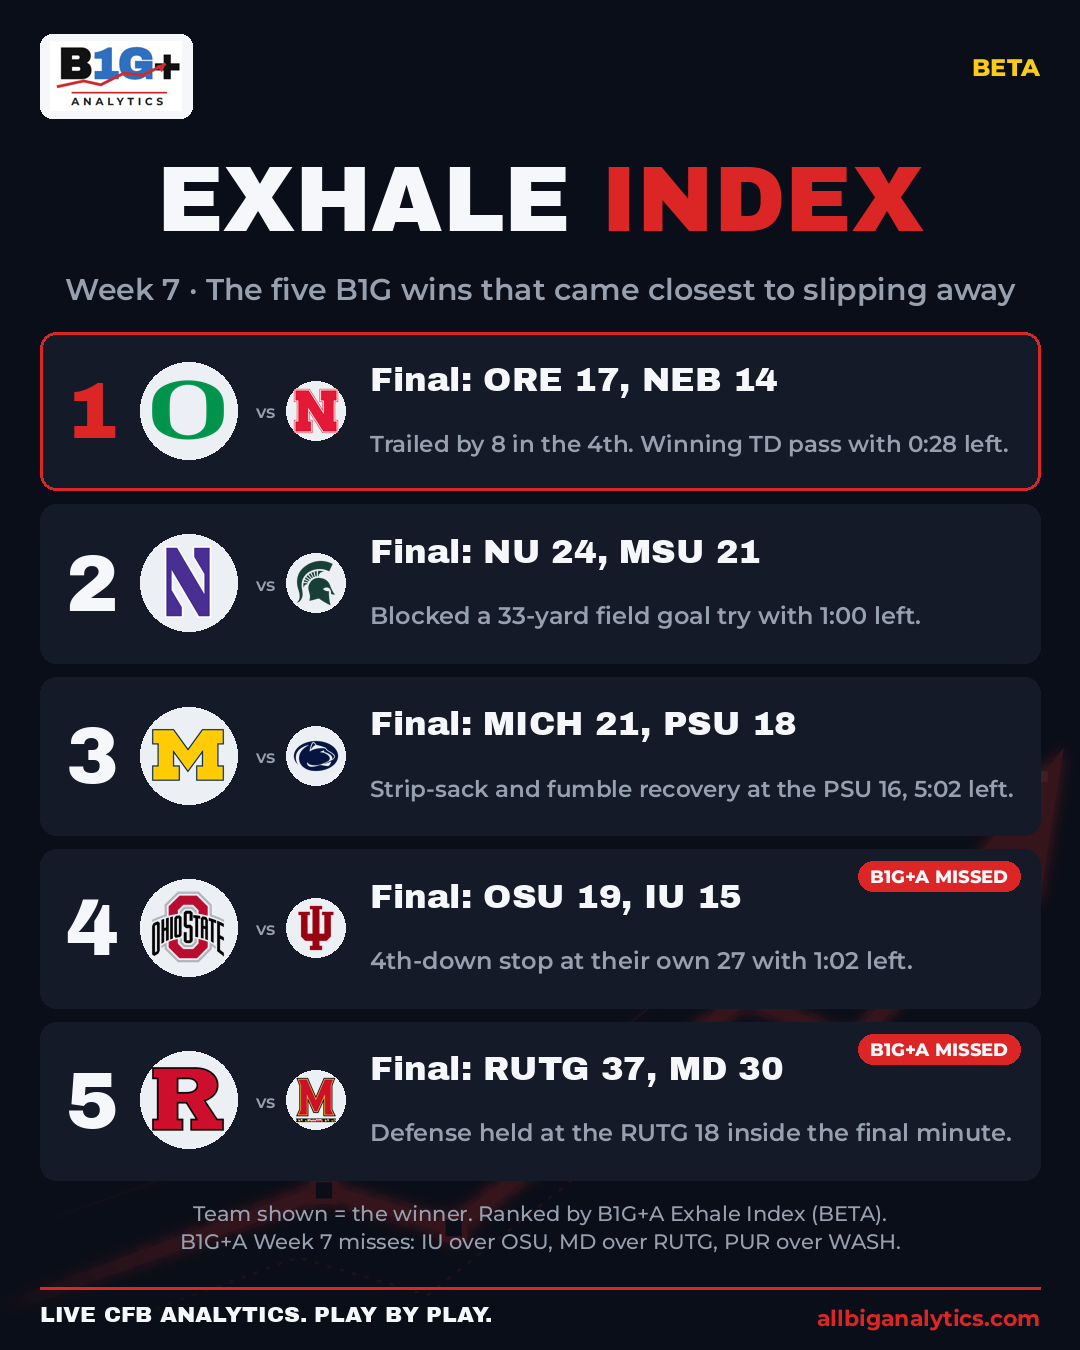
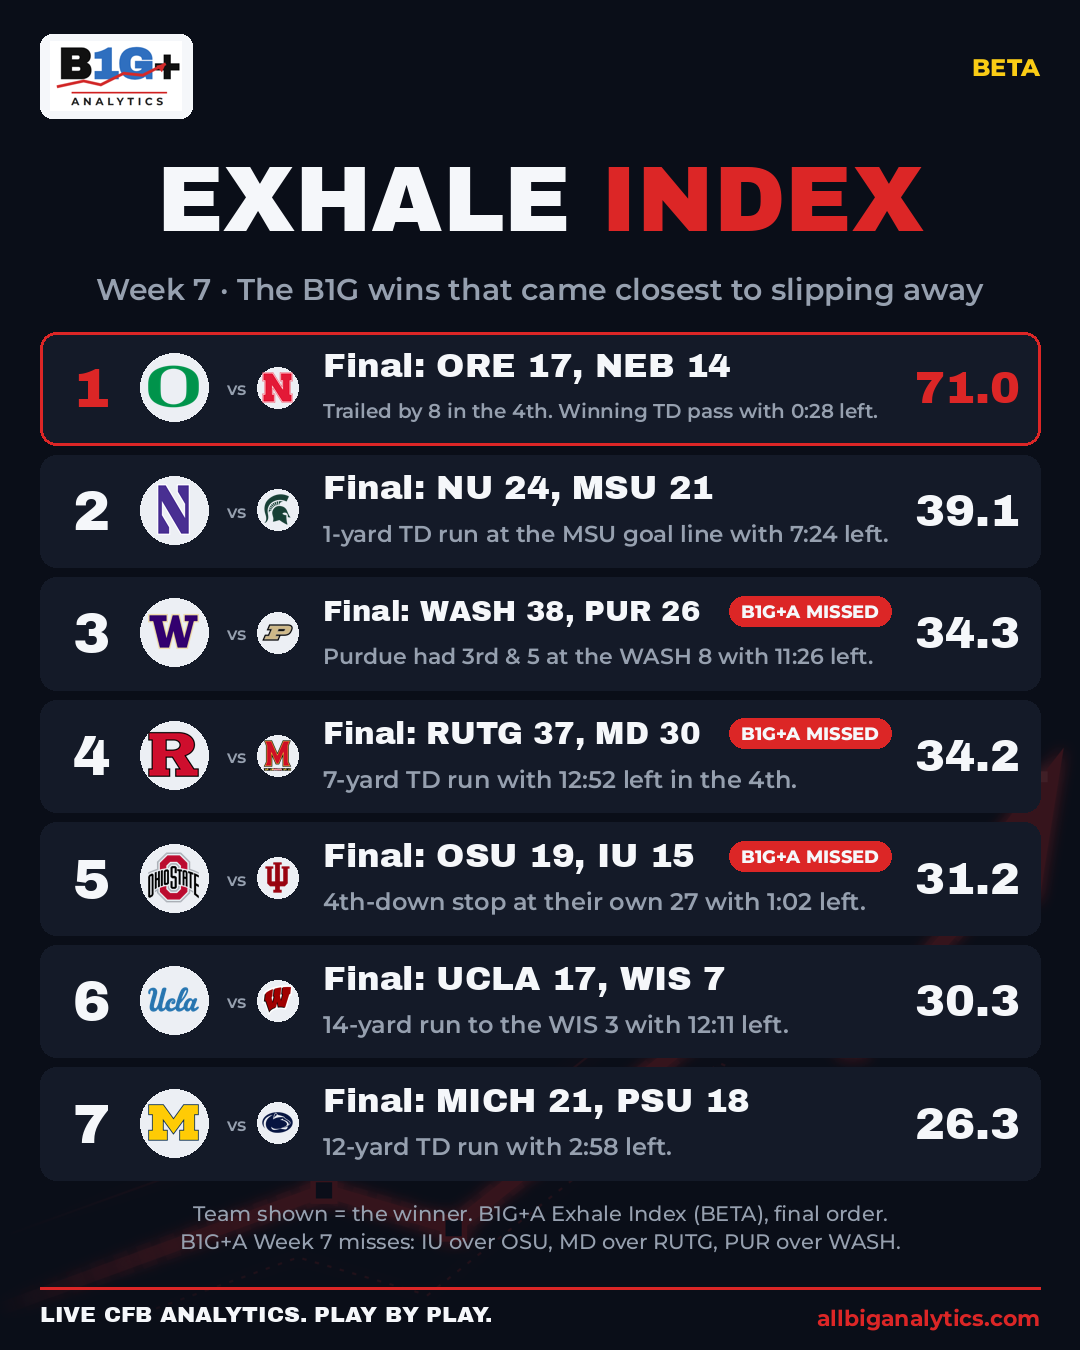
Week 7 Misery/Exhale final order + Report Card (X + IG)

Changed region(s): [[0.0306, 0.2489, 0.9778, 0.9022], [0.0611, 0.1867, 0.9167, 0.2489]]

diff --git a/social/2026-10-18/exhale-index-w07.md b/social/2026-10-18/exhale-index-w07.md
@@ -1,14 +1,14 @@
-# Exhale Index, Week 7 (BETA)
+# Exhale Index, Week 7 (BETA), final order
 **X caption:**
-B1G+A EXHALE INDEX, Week 7 😮💨 The wins that almost got away:
-1. Oregon: down 8 in the 4th, winning TD with 0:28 left (17-14 vs NEB)
-2. Northwestern: blocked a 33-yd FG with 1:00 left (24-21 at MSU)
-3. Michigan: strip-sack at the PSU 16, 5:02 left (21-18)
-B1G+A missed OSU and RUTG; both are on the list.
+B1G+A EXHALE INDEX, Week 7 (final) 😮💨
+1. Oregon 71.0: down 8 in the 4th, winning TD with 0:28 left (17-14 vs NEB)
+2. Northwestern 39.1: 1-yard TD run with 7:24 left (24-21 at MSU)
+3. Washington 34.3: 38-26 at Purdue (B1G+A missed this one)
+Rutgers, Ohio State, UCLA and Michigan round out the 7.
 https://www.allbiganalytics.com
 
 **IG caption:**
-EXHALE INDEX, Week 7 (BETA): the five B1G wins that came closest to slipping away, ranked by B1G+A. Oregon's TD with 0:28 left leads it. Ohio State and Rutgers made the list after B1G+A projected the other side. Live play-by-play tracker: link in bio.
+EXHALE INDEX, Week 7 (BETA), final order: the seven B1G wins that came closest to slipping away. Oregon's TD with 0:28 left leads at 71.0. Washington, Rutgers and Ohio State made the list after B1G+A projected the other side. Live play-by-play tracker: link in bio.
 #B1G #CollegeFootball #CFB #BigTen #B1GA
 
-**Source:** B1G+A Exhale Index (BETA) Week 7 rankings, with finals and play details from public play-by-play feeds; built Oct 18, 2026.
+**Source:** B1G+A Exhale Index (BETA) Week 7 final scores (official live win-probability build, Oct 18, 2026); finals and play details from public play-by-play feeds.

diff --git a/social/2026-10-18/misery-index-w07.md b/social/2026-10-18/misery-index-w07.md
@@ -1,14 +1,14 @@
-# Misery Index, Week 7 (BETA)
+# Misery Index, Week 7 (BETA), final order
 **X caption:**
-B1G+A Misery Index, Week 7 😩
-1. Nebraska: led by 8 in the 4th, Oregon scored the winning TD with 0:28 left (ORE 17-14)
-2. Michigan State: led by 8 in the 4th, 33-yd FG blocked with 1:00 left (NU 24-21)
-3. Indiana: 4th & 4 at the OSU 27, 1:02 left (OSU 19-15)
-B1G+A missed IU-OSU and MD-RUTG this week.
+B1G+A Misery Index, Week 7 (final) 😩
+1. Nebraska 76.5: led by 8 in the 4th, Oregon scored the winning TD with 0:28 left (ORE 17-14)
+2. Michigan State 61.6: led by 8 in the 4th, lost 24-21 to NU
+3. Maryland 56.0: fell 37-30 to Rutgers (B1G+A missed this one)
+B1G+A also missed IU-OSU.
 https://www.allbiganalytics.com
 
 **IG caption:**
-The five most painful B1G losses of Week 7, ranked by the B1G+A Misery Index (BETA). Nebraska tops it: up 8 in the 4th, then Oregon scored with 0:28 left. B1G+A owns its misses: IU over OSU, MD over RUTG and PUR over WASH. Full play-by-play tracker: link in bio.
+The most painful B1G losses of Week 7, final order from the B1G+A Misery Index (BETA). Nebraska tops it at 76.5: up 8 in the 4th, then Oregon scored with 0:28 left. B1G+A owns its misses: IU over OSU, MD over RUTG and PUR over WASH. Live play-by-play tracker: link in bio.
 #B1G #CollegeFootball #CFB #BigTen #B1GA
 
-**Source:** B1G+A Misery Index (BETA) Week 7 rankings, with finals and play details from public play-by-play feeds; built Oct 18, 2026.
+**Source:** B1G+A Misery Index (BETA) Week 7 final scores (official live win-probability build, Oct 18, 2026); finals and play details from public play-by-play feeds.

diff --git a/social/2026-10-18/reportcard-w07.md b/social/2026-10-18/reportcard-w07.md
@@ -1,0 +1,13 @@
+# Week 7 Report Card (BETA)
+**X caption:**
+B1G+A Week 7 Report Card 📝
+Top grade: Washington, A overall after a 38-26 win at Purdue.
+UCLA (B+) and Ohio State (B+) are next. Purdue and Maryland bring up the rear at D.
+Idle: ILL, USC, MINN, IOWA.
+https://www.allbiganalytics.com
+
+**IG caption:**
+Week 7 Report Card: every B1G team that played, graded by B1G+A (BETA) on offense, defense, special teams and penalties. Washington takes the only A. UCLA and Ohio State follow at B+. Full grades and projections: link in bio.
+#B1G #CollegeFootball #CFB #BigTen #B1GA
+
+**Source:** B1G+A Week 7 Report Card grades (BETA), Oct 16-17, 2026 games; finals from public play-by-play feeds.
